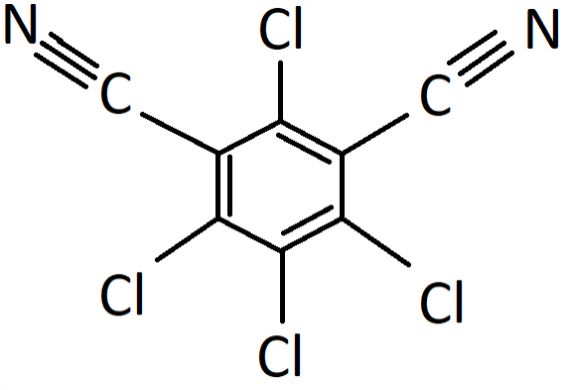
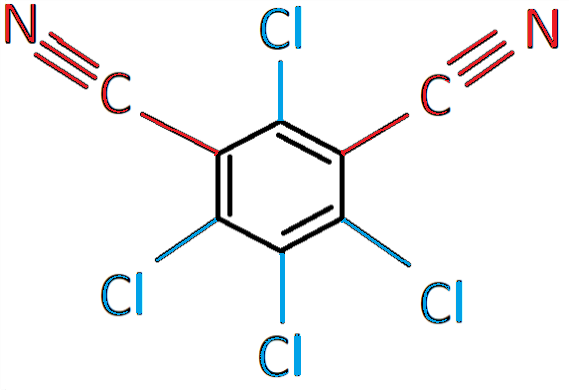
Versao 3.5

diff --git a/Agrotoxicos.html b/Agrotoxicos.html
@@ -46,8 +46,9 @@
                     Origem
                 </h1>
                 <p class="conftxt">
-                    Estes produtos foram desenvolvidos durante a Primeira Guerra Mundial e extremamente utilizados na Segunda Guerra Mundial, como arma química. Após o término da guerra, estes passaram a ser usados como defensivo agrícola. O primeiro composto desta classe,
-                    denominado DDT, foi fabricado em 1874 por Othomar Zeidler; contudo, foi apenas em 1939 que Paul Muller evidenciou suas propriedades inseticidas.
+                   
+Os agrotóxicos foram desenvolvidos durante a Primeira Guerra Mundial e utilizados como arma química durante a Segunda Guerra. (MELDAL, 2009). No final da década de 50, após a Segunda Guerra, iniciou-se a chamada Revolução Verde que intensificou o uso de agentes químicos na produção agrícola, aumentando a produtividade e gerando impactos para a saúde humana e o meio ambiente (BORSOI, SANTOS, TAFFAREL e JUNIOR, 2014).
+
                 </p>
             </div>
 
@@ -170,7 +171,7 @@
                 <img class="teste1 " src="imagem/CLOROTALONIL.png ">
 
                 <p class="conftxt ">
-                    <strong> Função Orgânica: </strong> <br><br>
+                    <strong> Função Orgânica:</strong> <span class="Palavra3">Nitrila</span>, <span class="Palavra2">Haleto</span>. <br><br>
 
                     <strong> Tipo: </strong> Funcida <br><br>
 
@@ -198,7 +199,7 @@
                 <img class="teste1 " src="imagem/Glifosato.png ">
 
                 <p class="conftxt ">
-                    <strong> Função Orgânica: </strong> Ácido Carboxixilixo, Amina <br><br>
+                    <strong> Função Orgânica: </strong> <span class="Palavra1">Ácido Carboxixilixo</span>, <span class="Palavra2">Amina</span>. <br><br>
 
                     <strong> Tipo: </strong> Herbicida <br><br>
 
@@ -219,7 +220,7 @@
                 </h2>
                 <img class="teste1 " src="imagem/Fipronil.png ">
                 <p class="conftxt ">
-                    <strong> Função Orgânica: </strong> <br><br>
+                    <strong> Função Orgânica: </strong> <span class="Palavra2">Amina</span>, <span class="Palavra3">Nitrila</span>, <span class="Palavra1">Haleto</span>. <br><br>
 
                     <strong> Tipo: </strong> Inseticida <br><br>
 
@@ -244,7 +245,7 @@
                 </h2>
                 <img class="teste1 " src="imagem/Amitraz.png ">
                 <p class="conftxt ">
-                    <strong> Função Orgânica: </strong> <br><br>
+                    <strong> Função Orgânica: </strong> <span class="Palavra3">Amina</span>. <br><br>
 
                     <strong> Tipo: </strong> Acaricidas <br><br>
 
@@ -264,9 +265,10 @@
                 <h2 class="confh2 ">
                     Bromex
                 </h2>
-                <img class="teste1 " src="imagem/Bromex.png ">
+                
+                <img class="teste1 " src="imagem/Bromex3.png ">
                 <p class="conftxt ">
-                    <strong> Função Orgânica: </strong> <br><br>
+                    <strong> Função Orgânica: </strong> <span class="Palavra1">Haleto</span>, <span class="Palavra2">Cetona</span>, <span class="Palavra3">Amina</span>. <br><br>
 
                     <strong> Tipo: </strong> Nematicida <br><br>
 

diff --git a/css/style.css b/css/style.css
@@ -1,6 +1,7 @@
 body {
     background-color: white;
     font-family: 'Merriweather', serif;
+    height: 100%;
 }
 
 .cabecalho {
@@ -16,17 +17,6 @@ body {
 
 .folha-imagem {
     height: 67px;
-}
-
-main {
-    padding: 30px;
-    height: 750px;
-    width: 65%;
-}
-
-.rodape {
-    background-color: rgb(190, 245, 153);
-    padding: 5px;
 }
 
 .rodape p {

diff --git a/css/contato.css b/css/contato.css
@@ -44,8 +44,14 @@ input::placeholder {
     border-radius: 5px;
 }
 
+.rodape{
+    position: absolute;
+    bottom: 0;
+    width: 99.5%;
+}
+
 .enviar:hover {
-    background-color: aqua;
+    background-color: rgb(30, 158, 62);
 }
 
 @media screen and (max-width: 768px) {

diff --git a/css/agrotoxicos.css b/css/agrotoxicos.css
@@ -88,6 +88,20 @@ div {
     text-align: center;
 }
 
+.Palavra1 {
+
+    color: green;
+}
+.Palavra2 {
+
+    color: rgb(0, 131, 253);
+}
+
+.Palavra3 {
+
+    color: red;
+}
+
 @media screen and (max-width: 768px) {
     .teste1 {
         margin-top: 20px;

diff --git a/css/quemsomos.css b/css/quemsomos.css
@@ -7,7 +7,7 @@ main {
 .item {
     display: flex;
     margin: 20px 0px 20px 0;
-    background-color: rgb(142, 216, 93);
+    background-color: rgb(152, 223, 104);
     padding: 20px;
     border-radius: 8px;
     width: 70%;
